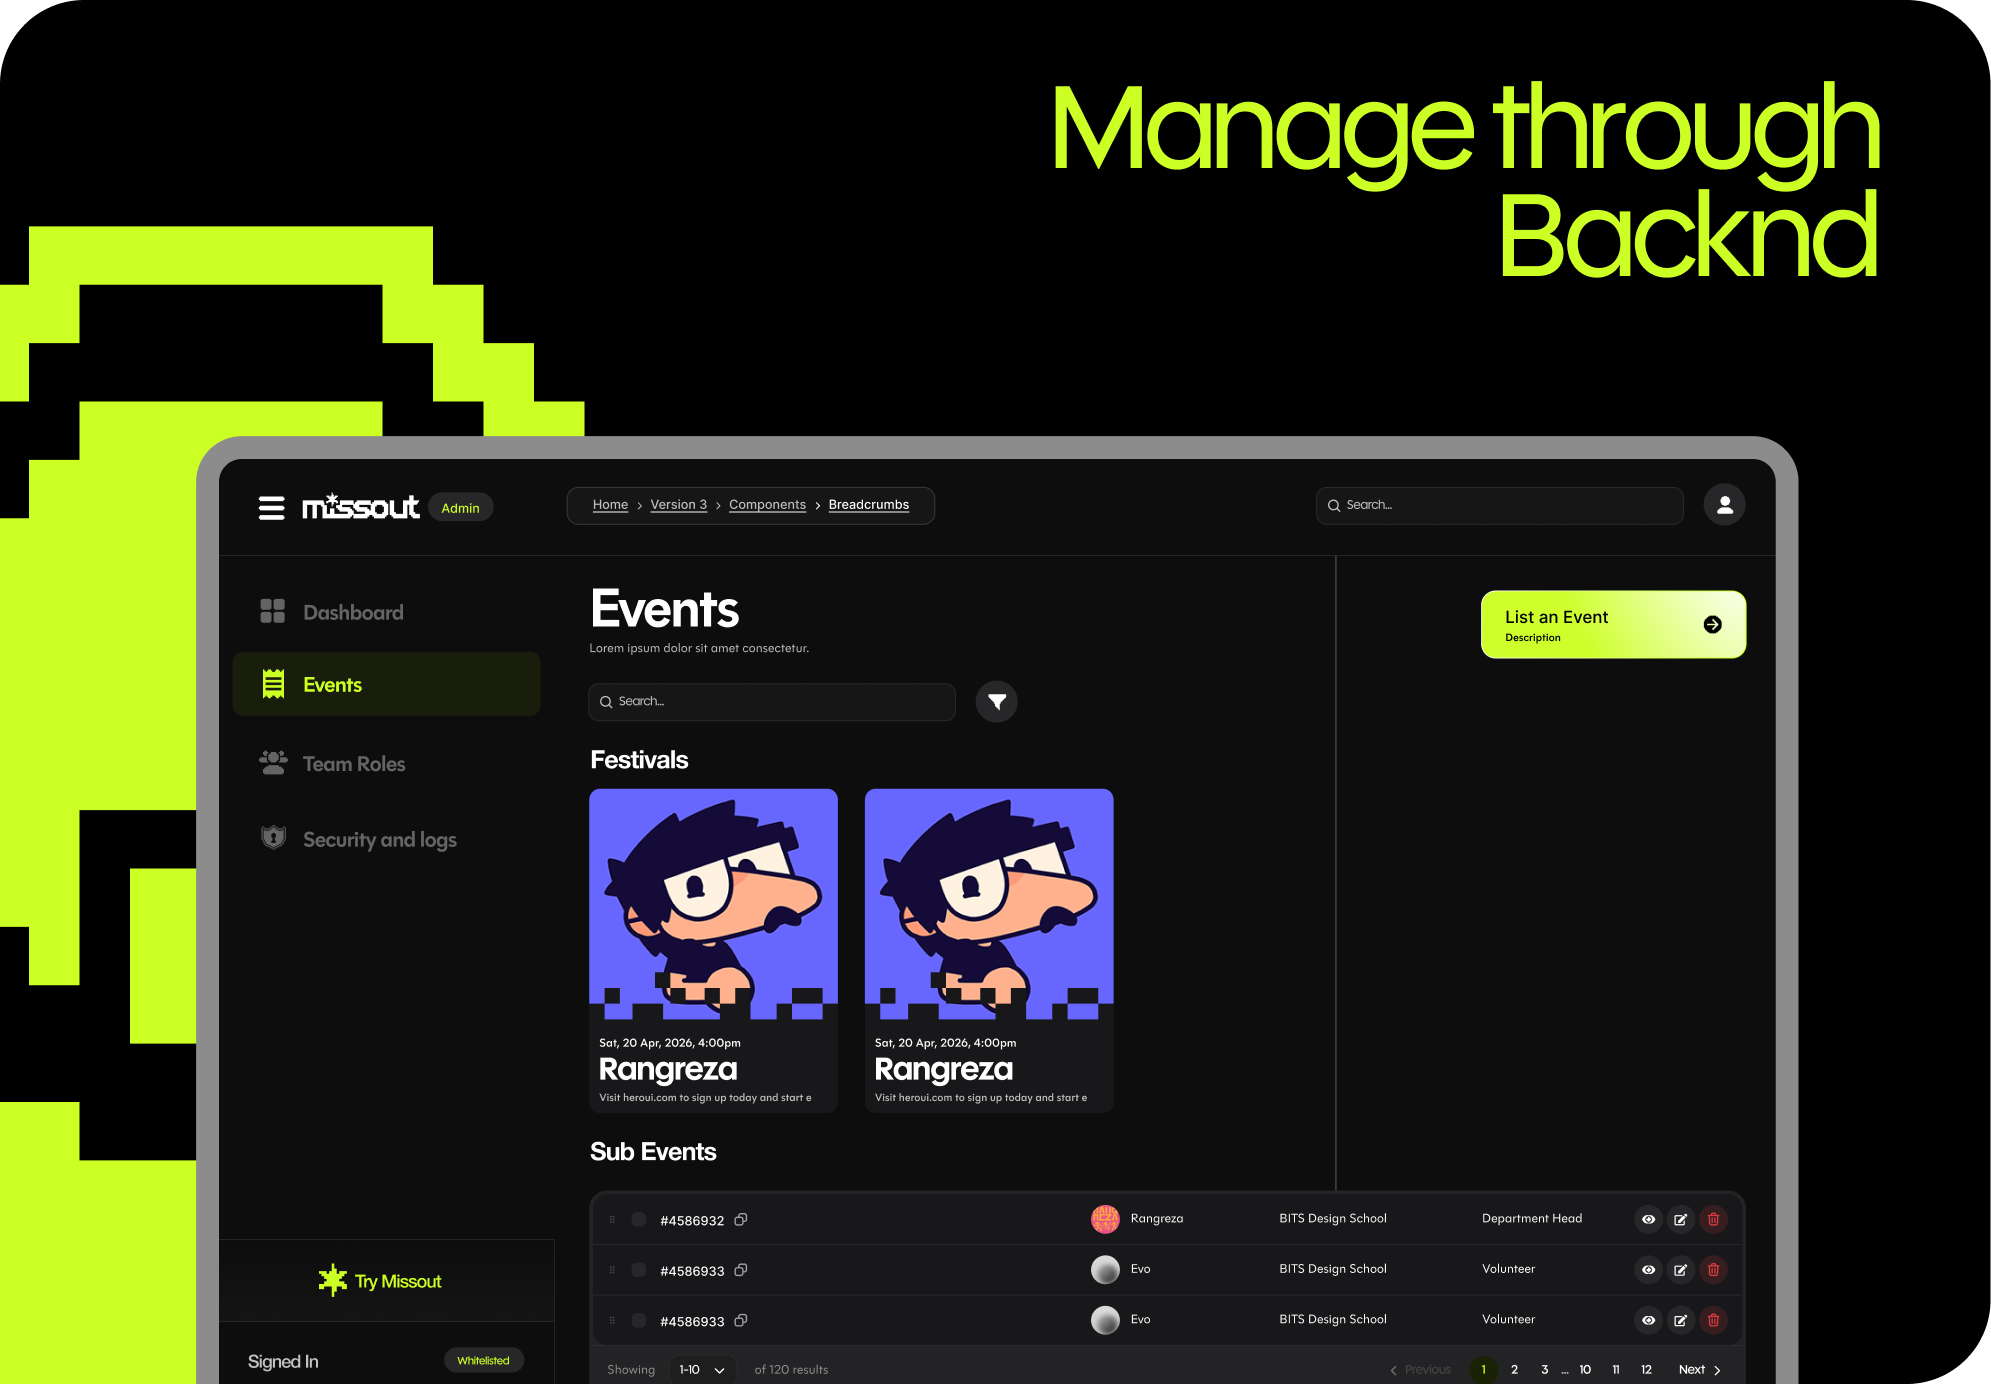
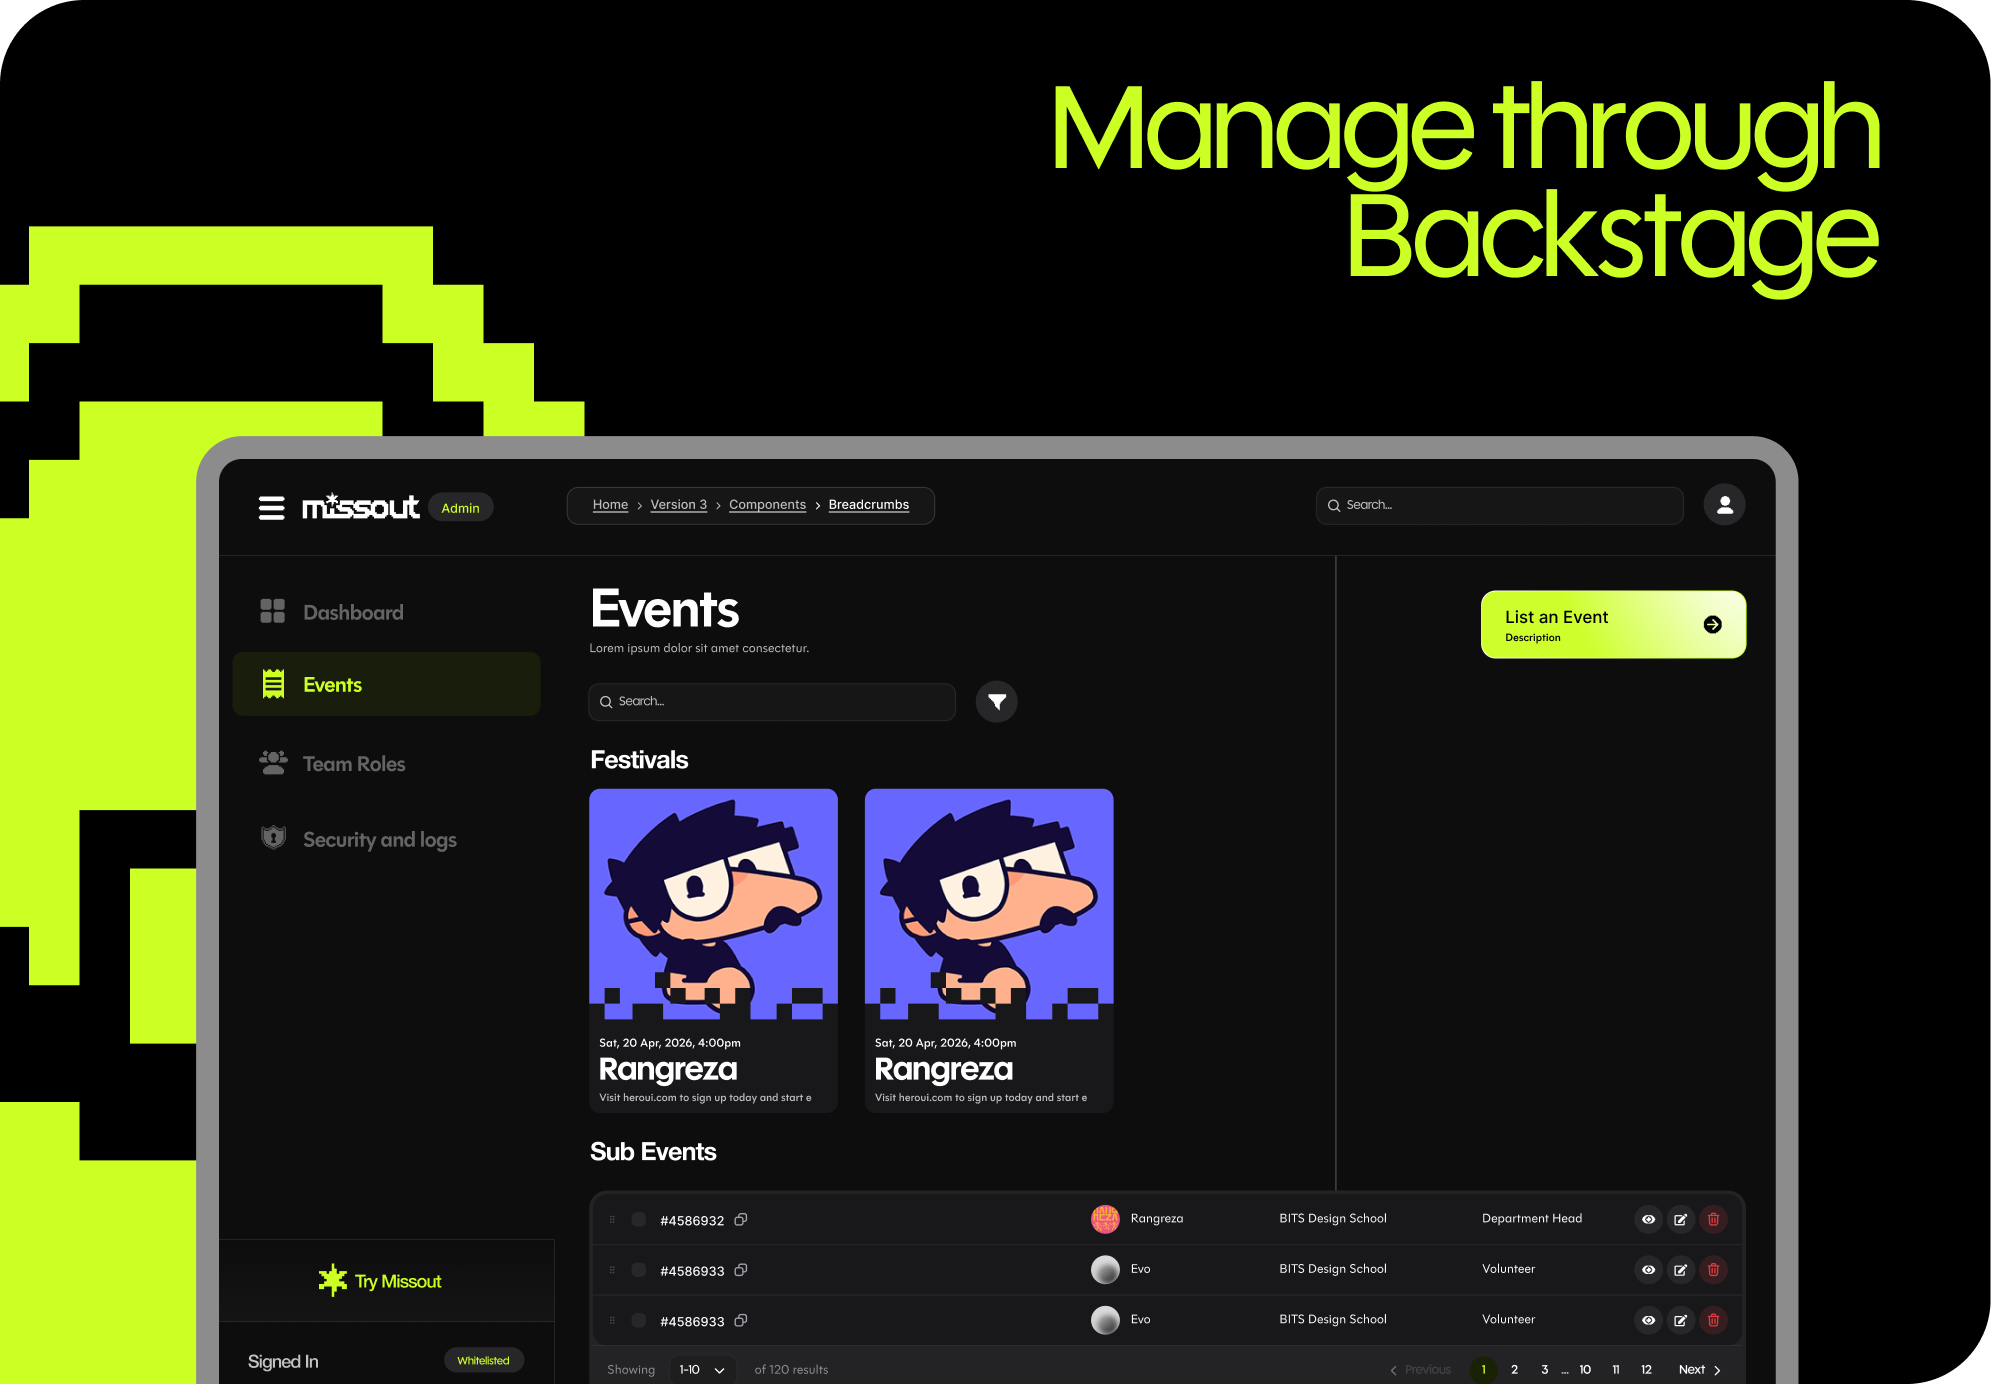
Update Backstage hero asset and tighten product hero layout.
Refresh backstage.png with the full headline art, scale down the product hero cards to prevent viewport cropping, and temporarily hide the partners section on the homepage.

Changed region(s): [[0.6539, 0.1242, 0.9653, 0.2173]]

diff --git a/src/components/product/ProductHeroSection.tsx b/src/components/product/ProductHeroSection.tsx
@@ -123,17 +123,17 @@ function ProductHeroVisual({
 
       {/* Cards: sibling overlay — independent of SVG clip / border-radius stacking */}
       <div className="pointer-events-none absolute inset-x-0 bottom-[6%] top-[4%] z-[2] max-md:bottom-[8%] max-md:top-[10%] md:bottom-[6%] md:top-[10%] lg:top-[12%] xl:top-[14%]">
-        <div className="relative mx-auto h-full w-full max-md:max-w-full max-w-[28rem] md:max-w-[min(100%,71rem)] lg:max-w-[min(100%,76rem)]">
+        <div className="relative mx-auto h-full w-full max-md:max-w-full max-w-[26rem] md:max-w-[min(100%,64rem)] lg:max-w-[min(100%,68rem)]">
           {/*
             Mobile (< md): same row — Missout left, Backstage right — keeps pixel wings visible in the gap.
             md+: diagonal layout unchanged.
           */}
-          <div className="pointer-events-auto absolute left-1/2 top-[1%] z-[3] w-[96%] max-w-[28rem] -translate-x-1/2 -translate-y-8 max-md:left-0 max-md:right-auto max-md:top-[14%] max-md:w-[47.5%] max-md:max-w-none max-md:translate-x-0 max-md:-translate-y-0 sm:max-w-[30rem] sm:-translate-y-10 md:left-0 md:top-0 md:w-[50%] md:max-w-none md:-translate-x-6 md:-translate-y-11 lg:w-[49%] lg:-translate-x-10 lg:-translate-y-[3.35rem] xl:w-[48%] xl:-translate-x-14 xl:-translate-y-[3.85rem] 2xl:-translate-x-[4.5rem] 2xl:-translate-y-[3.95rem]">
+          <div className="pointer-events-auto absolute left-1/2 top-[1%] z-[3] w-[96%] max-w-[28rem] -translate-x-1/2 -translate-y-8 max-md:left-0 max-md:right-auto max-md:top-[14%] max-md:w-[47.5%] max-md:max-w-none max-md:translate-x-0 max-md:-translate-y-0 sm:max-w-[30rem] sm:-translate-y-10 md:left-0 md:top-0 md:w-[47%] md:max-w-none md:-translate-x-4 md:-translate-y-11 lg:w-[46%] lg:-translate-x-6 lg:-translate-y-[3.35rem] xl:w-[45%] xl:-translate-x-8 xl:-translate-y-[3.85rem] 2xl:-translate-x-12 2xl:-translate-y-[3.95rem]">
             <div ref={discoverCardRef} className="will-change-transform">
               <ProductGlassDiscoverCard />
             </div>
           </div>
-          <div className="pointer-events-auto absolute bottom-[1%] left-1/2 z-[4] w-[96%] max-w-[28rem] -translate-x-1/2 -translate-y-11 max-md:bottom-auto max-md:left-auto max-md:right-0 max-md:top-[14%] max-md:w-[47.5%] max-md:max-w-none max-md:translate-x-0 max-md:-translate-y-0 sm:max-w-[30rem] sm:-translate-y-[2.875rem] md:bottom-[28%] md:right-0 md:top-auto md:w-[50%] md:max-w-none md:translate-x-6 md:-translate-y-[4.125rem] lg:w-[49%] lg:translate-x-10 lg:-translate-y-[4.625rem] xl:w-[48%] xl:translate-x-14 xl:-translate-y-[5.35rem] 2xl:translate-x-[4.5rem] 2xl:-translate-y-[5.65rem]">
+          <div className="pointer-events-auto absolute bottom-[1%] left-1/2 z-[4] w-[96%] max-w-[28rem] -translate-x-1/2 -translate-y-11 max-md:bottom-auto max-md:left-auto max-md:right-0 max-md:top-[14%] max-md:w-[47.5%] max-md:max-w-none max-md:translate-x-0 max-md:-translate-y-0 sm:max-w-[30rem] sm:-translate-y-[2.875rem] md:bottom-[28%] md:right-0 md:top-auto md:w-[47%] md:max-w-none md:translate-x-4 md:-translate-y-[4.125rem] lg:w-[46%] lg:translate-x-6 lg:-translate-y-[4.625rem] xl:w-[45%] xl:translate-x-8 xl:-translate-y-[5.35rem] 2xl:translate-x-12 2xl:-translate-y-[5.65rem]">
             <div ref={manageCardRef} className="will-change-transform">
               <ProductGlassManageCard />
             </div>
@@ -179,7 +179,7 @@ export function ProductHeroSection() {
       </div>
 
       {/* Full-bleed visual — not constrained by `max-w-6xl` so cards + graphic can scale */}
-      <div className="relative z-[1] mx-auto mt-5 w-full max-w-[min(100%,76rem)] px-2 max-md:mt-10 sm:mt-6 sm:px-3 md:px-4 lg:mt-8 lg:px-5 xl:px-6">
+      <div className="relative z-[1] mx-auto mt-5 w-full max-w-[min(100%,68rem)] origin-top px-2 max-md:mt-10 sm:mt-6 sm:px-3 md:origin-center md:scale-[0.94] md:px-5 lg:mt-8 lg:px-6 lg:scale-[0.92] xl:scale-[0.94]">
         <ProductHeroVisual
           imageLayerRef={imageLayerRef}
           discoverCardRef={discoverCardRef}

diff --git a/src/pages/HomePage.tsx b/src/pages/HomePage.tsx
@@ -8,6 +8,9 @@ import { FaqSection } from '../components/faq'
 import { PeopleInvolvedSection } from '../components/people-involved'
 import { ValuePropositionsSection } from '../components/value-propositions'
 
+/** Re-enable when partner fests are ready to show on the homepage. */
+const SHOW_PARTNER_FESTS_SECTION = false
+
 export function HomePage() {
   const { hash } = useLocation()
 
@@ -30,7 +33,7 @@ export function HomePage() {
 
       <ValuePropositionsSection />
 
-      <PartnerFestsSection />
+      {SHOW_PARTNER_FESTS_SECTION ? <PartnerFestsSection /> : null}
       <PeopleInvolvedSection />
       <FaqSection />
       <ContactSection />
